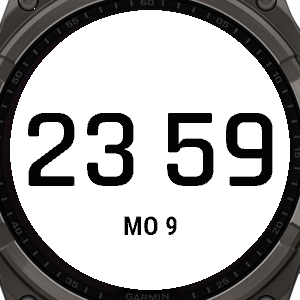
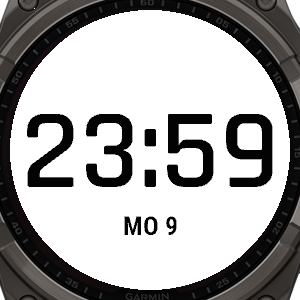
Split Time 1.2: colon in style B, font and bold settings
- Style B shows "9:05" with a colon, sized for "88:88"
- New Font setting with five system sans serif faces: Bionic, Roboto
  Condensed, Kosugi, Nanum Gothic and Noto Sans
- New Bold setting: Roboto Condensed uses its bold face, the others get a
  light simulated bold (8 offset copies per part, colon kept apart)
- Digits are re-fitted to the round screen for every font and weight
- Font sample screenshot and updated style B screenshots

diff --git a/README.md b/README.md
@@ -12,16 +12,25 @@ Diseñada y probada para **tactix 8 Solar 51 mm** / **fēnix 8 Solar 51 mm** (ID
 ## Funciones
 
 - **Estilo A - Vertical**: horas arriba y minutos abajo, separados por una línea, con la fecha en el cuadrante derecho.
-- **Estilo B - Horizontal**: `9 05` en una línea, con la fecha debajo.
-- **Cifras lo más grandes posible**: la esfera calcula el tamaño de la fuente Bionic del sistema para que la hora más ancha quepa dejando unos 10 px hasta el borde circular. El tamaño no cambia con la hora.
+- **Estilo B - Horizontal**: `9:05` en una línea, con la fecha debajo.
+- **Cinco fuentes sans serif** del sistema para la hora, con opción de negrita: Bionic, Roboto Condensed, Kosugi, Nanum Gothic y Noto Sans. Roboto Condensed tiene negrita propia; en las demás la esfera engorda el trazo.
+- **Cifras lo más grandes posible**: la esfera calcula el tamaño de cada fuente para que la hora más ancha quepa dejando unos 10 px hasta el borde circular. El tamaño no cambia con la hora.
 - **Fecha** en Roboto Condensed, la fuente del sistema: `MO 12`, `TU 3`, `WE`, `TH`, `FR`, `SA`, `SU`.
 - **Fondo negro o blanco**, con los colores invertidos.
 - **Calendario mensual**: mantén pulsada la pantalla para abrirlo. Con el calendario abierto, una pulsación larga a la izquierda muestra el mes anterior, a la derecha el siguiente y en el centro vuelve a la hora. El día actual aparece marcado en gris.
 
-![Calendario en los estilos A y B](docs/calendario.png)
-
 - Respeta el formato de 12/24 h del reloj. En el estilo B la hora va siempre sin cero delante, como en la referencia.
 - Bajo consumo: se refresca una vez por minuto y no usa imágenes.
+
+### Fuentes
+
+De izquierda a derecha: Bionic, Roboto Condensed, Kosugi, Nanum Gothic y Noto Sans. Arriba normal, abajo en negrita.
+
+![Las cinco fuentes, normal y negrita](docs/fuentes.png)
+
+### Calendario
+
+![Calendario en los estilos A y B](docs/calendario.png)
 
 ## Instalación
 
@@ -38,6 +47,8 @@ En el reloj: mantén pulsado **UP/MENU**, entra en **Esfera** y en **Personaliza
 | Ajuste | Opciones |
 |---|---|
 | Estilo | A - Vertical (por defecto) / B - Horizontal |
+| Fuente | Bionic (por defecto) / Roboto Condensed / Kosugi / Nanum Gothic / Noto Sans. Cada pulsación pasa a la siguiente. |
+| Negrita | Sí / No (por defecto) |
 | Fondo negro | Sí (por defecto) / No |
 
 Como la esfera se instala a mano, estos ajustes no aparecen en la app Garmin Connect.
@@ -50,7 +61,7 @@ Necesitas el [Connect IQ SDK](https://developer.garmin.com/connect-iq/sdk/) con 
 monkeyc -f monkey.jungle -d fenix8solar51mm -o SplitTime.prg -y /ruta/a/developer_key
 ```
 
-El margen con el borde, los huecos y los tamaños de la fecha y el calendario se ajustan con las constantes del principio de [`source/SplitTimeView.mc`](source/SplitTimeView.mc).
+El margen con el borde, los huecos, el grosor de la negrita y los tamaños de la fecha y el calendario se ajustan con las constantes del principio de [`source/SplitTimeView.mc`](source/SplitTimeView.mc).
 
 ## Licencia
 
